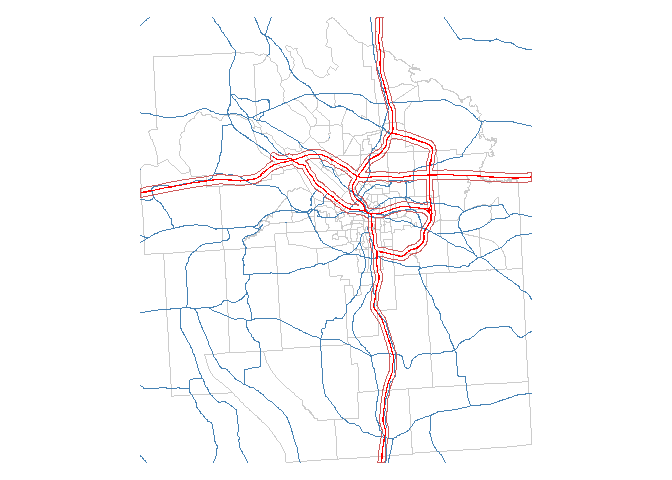
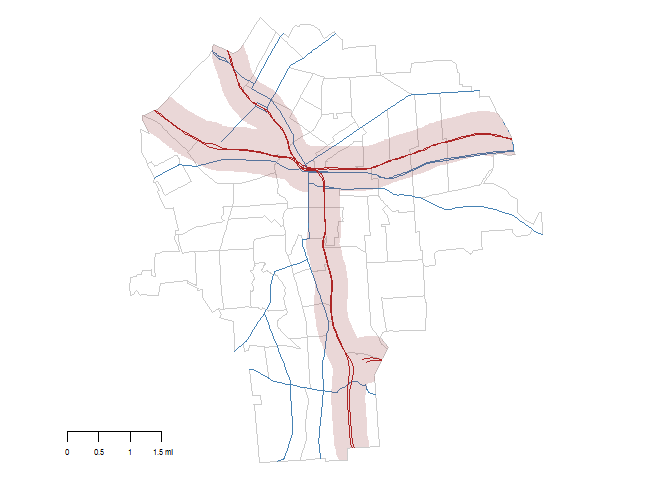
Rework Buffer

diff --git a/Lab06/20170309_Lab06_DDMII_BrownChristine.md b/Lab06/20170309_Lab06_DDMII_BrownChristine.md
@@ -3,8 +3,13 @@
 Christine Brown
 March 9, 2017
 
+Part 1: (1) Download the Tiger shapefiles for Onondaga County census tracts and primary and secondary roads (see attached). Plot both together, highlighting interstates. (2) Clip the roads shapefile so that it is the same size as the census tracts shapefile. (3) Extract the interstates as a separate layer (subset function). (4) Create a buffer of approximately a quarter mile (eyeball this) from the interstate, and identify all houses that fall within this zone. (5) Add a new categorical variable to the houses dataset that indicates whether it falls within the buffer zone or not.
+
+Part 2: Using the Syracuse parcel file: (1) Create a buffer a quarter mile from industrial zones (LandUse). Create a plot to highlight your buffer zone. (2) Identify houses within the buffer zone and create a categorical variable in the dataset indicating proximity to industrial zones. (3) Create a buffer zone an eighth of a mile from schools. Create a plot go highlight these buffer zones. (4) Identify houses within the buffer zone and create a categorical variable in the dataset indicating proximity to schools.
+
 ``` r
 #Load Packages
+library( maps )
 library( maptools )
 library( raster )
 library( rgeos )
@@ -22,6 +27,7 @@ setwd( "./shapefiles" )
 
 #Load Onondaga Data in Environment
 ono_tracts <- readShapePoly( fn="tl_2010_36067_tract10", proj4string=CRS("+proj=longlat +datum=WGS84") )
+syr <- ono_tracts[as.numeric(as.character(ono_tracts$NAME10)) < 62, ]
 
 #Download Road Data
 ##download.file("ftp://ftp2.census.gov/geo/tiger/TIGER2015/PRISECROADS/tl_2015_36_prisecroads.zip", "roads.zip" )
@@ -33,33 +39,26 @@ roads <- readShapeLines( fn="tl_2015_36_prisecroads", proj4string=CRS("+proj=lon
 
 #Subset Interstates
 interstate <- roads[ roads$RTTYP == "I" , ]
+noninterstate <- roads[ roads$RTTYP != "I" , ]
 
-#Get Bounding Box
-b <‐ bbox(ono_tracts)
+#Clip Roads
+interstate_clipped <- gIntersection(syr, interstate, byid = TRUE, drop_lower_td = TRUE) #clip interstate with syr
+noninterstate_clipped <- gIntersection(syr, noninterstate, byid = TRUE, drop_lower_td = TRUE) #clip noninterstate with syr
 
-#Create Clipping Function
-gClip <‐ function(shp, bb){
-if(class(bb) == "matrix") b_poly <‐ as(extent(as.vector(t(bb))), "SpatialPolygons")
-else b_poly <‐ as(extent(bb), "SpatialPolygons")
-gIntersection(shp, b_poly, byid = T)
-}
-
-#Clip Elements to be Plotted
-ono_tracts_clipped <‐ gClip(ono_tracts, b)
-roads_clipped <‐ gClip(roads, b)
-interstate_clipped <‐ gClip(interstate, b)
-
-#Plot Data
+#Plot Tracts and Roads
 par( mar=c(0,0,0,0) )
-plot( ono_tracts,  border="gray80" )
-plot(roads_clipped, col="steelblue", lwd=1.25, add=T)
-plot( interstate_clipped, col="red", lwd=1.75, add=T )
+plot(syr, border="gray80")
+plot(noninterstate_clipped, col = "steelblue", lwd=1.25, add=T)
+plot(interstate_clipped, col = "firebrick", lwd=1.75, add=T)
+
+#Add Scale
+map.scale( metric=F, ratio=F, relwidth = 0.1, cex=.5 )
 
 #Create Buffer
-buff1 <- gBuffer( interstate, width=.005, byid=T )
+buff1 <- gBuffer( interstate_clipped, width=.005, byid=T )
 buff1 <- gUnaryUnion( buff1, id = NULL )
-buff1_clipped <- gClip(buff1, b)
-plot(buff1_clipped, border="indianred", lwd=.5, add=T)
+buff1_clipped <- gIntersection(syr, buff1)
+plot(buff1_clipped, col=rgb(150,50,50,50,maxColorValue=255),add=T, border=F)
 ```
 
 ![](20170309_Lab06_DDMII_BrownChristine_files/figure-markdown_github/unnamed-chunk-1-1.png)
